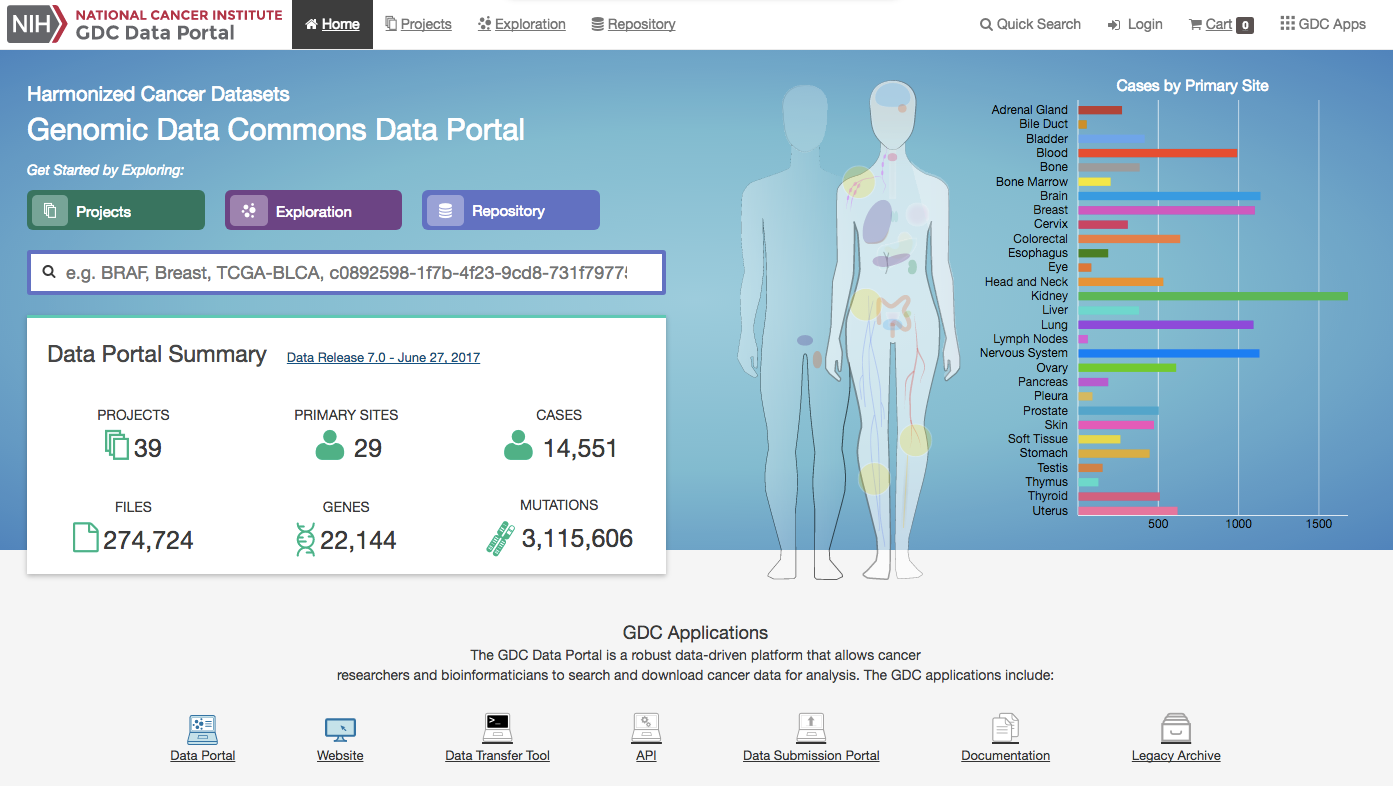
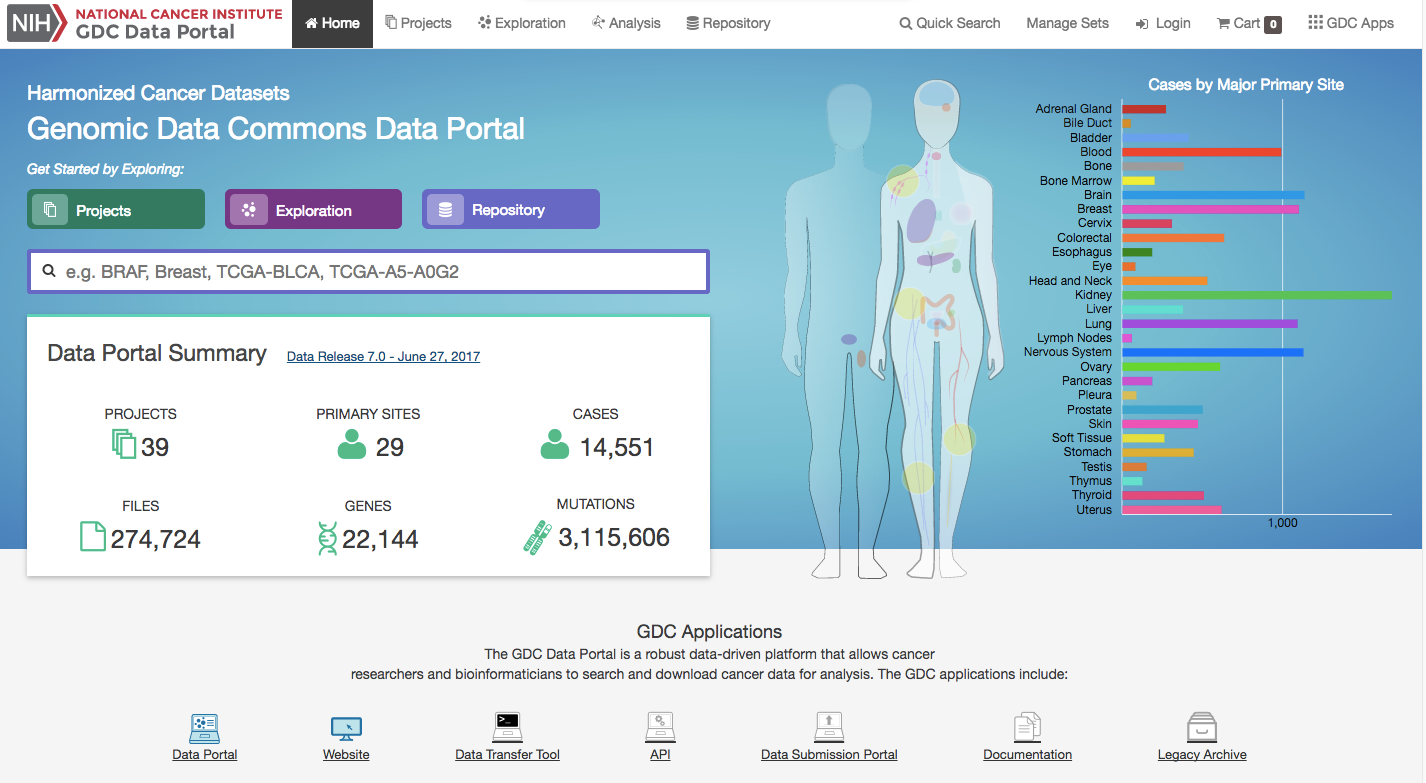
Update Front Page

diff --git a/docs/Data_Portal/Users_Guide/Getting_Started.md b/docs/Data_Portal/Users_Guide/Getting_Started.md
@@ -52,11 +52,11 @@ The Projects, Exploration, and Repository pages can be accessed from the GDC Dat
 
 The toolbar available at the top of all pages in the GDC Data Portal provides convenient navigation links and access to authentication and quick search.
 
-The left portion of this toolbar provides access to the Home Page, __Projects Page__, __Exploration Page__, and a link to __Repository Page__:
+The left portion of this toolbar provides access to the Home Page, __Projects Page__, __Exploration Page__, __Analysis Page__, and a link to __Repository Page__:
 
 [![GDC Data Portal Toolbar (Left)](images/gdc-data-portal-top-menu-bar-left.png)](images/gdc-data-portal-top-menu-bar-left.png "Click to see the full image.")
 
-The right portion of this toolbar provides access to [quick search](#quick-search), [authentication functions](Authentication.md), the [cart](Cart.md), and the GDC Apps menu:
+The right portion of this toolbar provides access to [quick search](#quick-search), manage sets, [authentication functions](Authentication.md), the [cart](Cart.md), and the GDC Apps menu:
 
 [![GDC Data Portal Toolbar (Left)](images/gdc-data-portal-top-menu-bar-right.png)](images/gdc-data-portal-top-menu-bar-right.png "Click to see the full image.")
 
